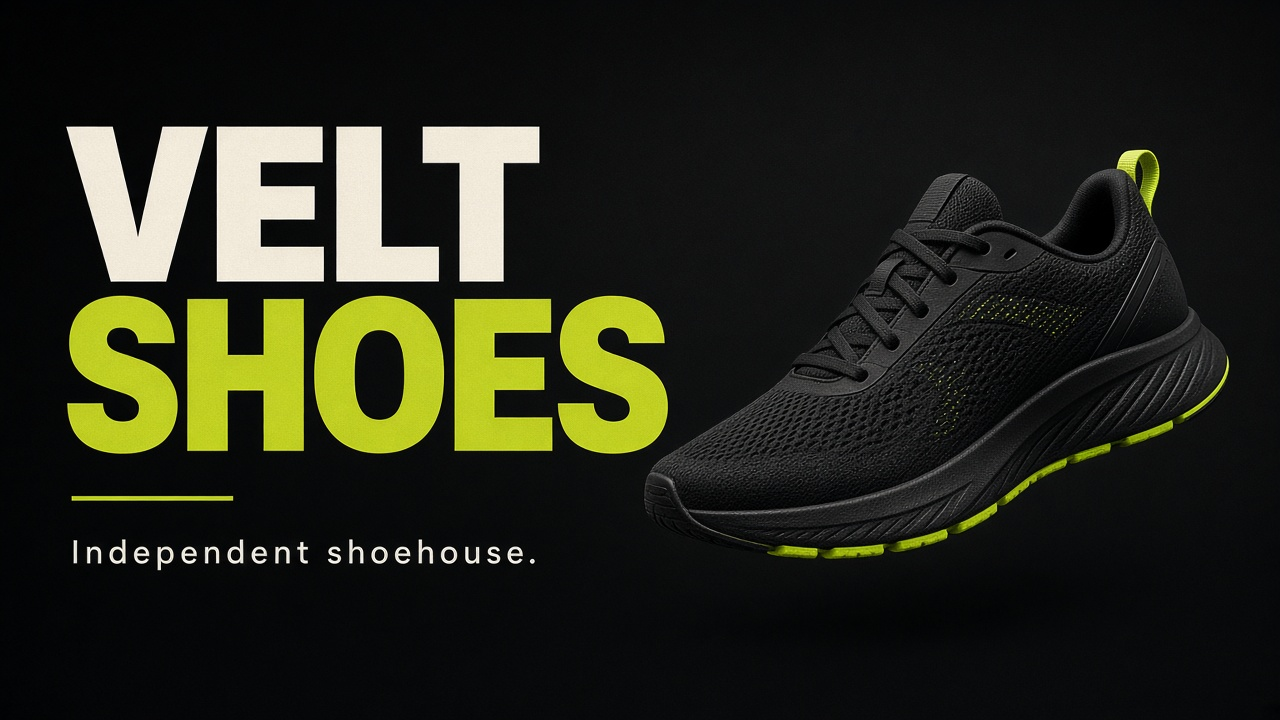
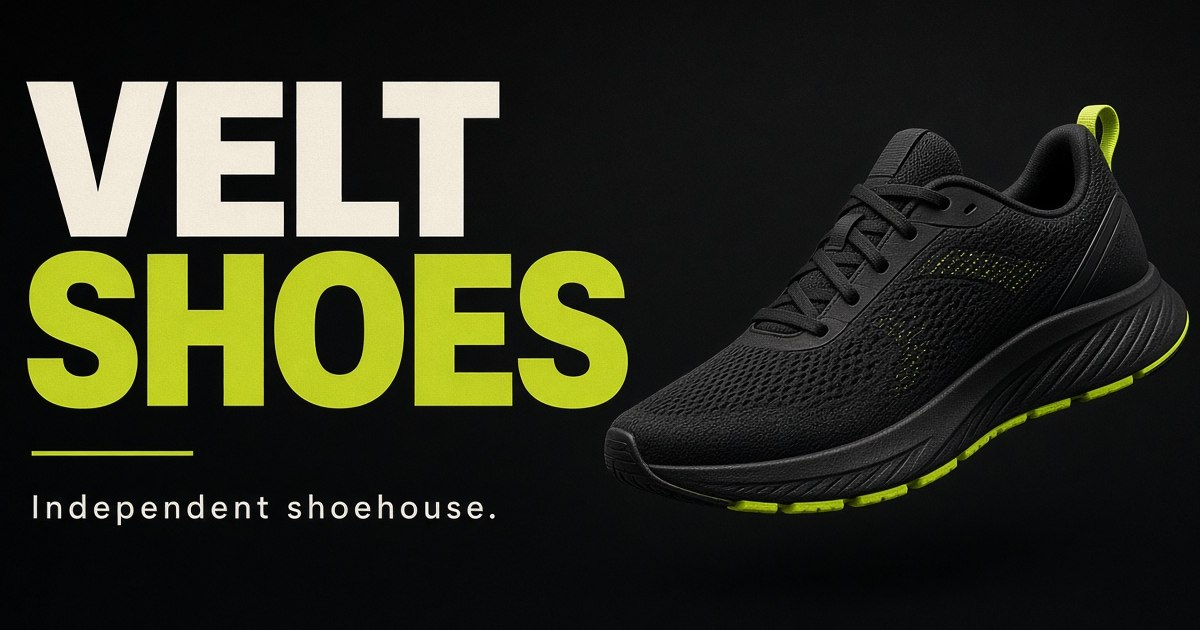
Add WhatsApp Open Graph preview image and complete SEO so shared links show the VELT card.

Changed region(s): [[0.0, 0.1206, 1.0, 0.8143], [0.0, 0.754, 0.4317, 0.8444]]

diff --git a/index.html b/index.html
@@ -8,34 +8,75 @@
       name="description"
       content="VELT is an independent shoehouse. Shop running, court, trail, and daily pairs chosen for fit, with 3-day shipping and a 30-day wear test."
     />
+    <meta
+      name="keywords"
+      content="VELT Shoes, independent shoehouse, running shoes, court shoes, trail shoes, sneakers"
+    />
     <meta name="author" content="VELT Shoes" />
-    <meta name="robots" content="index,follow" />
+    <meta name="robots" content="index,follow,max-image-preview:large" />
+    <meta name="googlebot" content="index,follow" />
     <meta name="theme-color" content="#050605" />
     <meta name="msapplication-TileColor" content="#B6FF3C" />
-    <link rel="canonical" href="/" />
+    <meta name="msapplication-TileImage" content="icon-192.png" />
+    <meta name="application-name" content="VELT Shoes" />
+    <meta name="apple-mobile-web-app-title" content="VELT Shoes" />
+    <meta name="apple-mobile-web-app-capable" content="yes" />
+    <meta name="apple-mobile-web-app-status-bar-style" content="black-translucent" />
+    <meta name="format-detection" content="telephone=no" />
+    <link rel="canonical" href="https://omar-mohamed-fattouh.github.io/Tailwind-Project-E-Commerce/" />
 
-    <link rel="icon" href="/favicon.ico" sizes="any" />
-    <link rel="icon" type="image/svg+xml" href="/favicon.svg" />
-    <link rel="icon" type="image/png" sizes="32x32" href="/favicon-32.png" />
-    <link rel="apple-touch-icon" href="/apple-touch-icon.png" />
-    <link rel="manifest" href="/site.webmanifest" />
+    <link rel="icon" href="favicon.ico" sizes="any" />
+    <link rel="icon" type="image/svg+xml" href="favicon.svg" />
+    <link rel="icon" type="image/png" sizes="32x32" href="favicon-32.png" />
+    <link rel="apple-touch-icon" href="apple-touch-icon.png" />
+    <link rel="manifest" href="site.webmanifest" />
 
     <meta property="og:type" content="website" />
+    <meta property="og:locale" content="en_US" />
     <meta property="og:site_name" content="VELT Shoes" />
     <meta property="og:title" content="VELT Shoes | Independent Shoehouse" />
     <meta
       property="og:description"
       content="Running, court, trail, and daily pairs chosen for fit — not hype."
     />
-    <meta property="og:image" content="/og-image.jpg" />
-    <meta property="og:image:alt" content="VELT Shoes featured running pair" />
+    <meta
+      property="og:url"
+      content="https://omar-mohamed-fattouh.github.io/Tailwind-Project-E-Commerce/"
+    />
+    <meta
+      property="og:image"
+      content="https://cdn.jsdelivr.net/gh/Omar-Mohamed-Fattouh/Tailwind-Project-E-Commerce@main/public/og-image.jpg"
+    />
+    <meta
+      property="og:image:secure_url"
+      content="https://cdn.jsdelivr.net/gh/Omar-Mohamed-Fattouh/Tailwind-Project-E-Commerce@main/public/og-image.jpg"
+    />
+    <meta property="og:image:type" content="image/jpeg" />
+    <meta property="og:image:width" content="1200" />
+    <meta property="og:image:height" content="630" />
+    <meta property="og:image:alt" content="VELT Shoes featured running pair on a black studio background" />
+
     <meta name="twitter:card" content="summary_large_image" />
     <meta name="twitter:title" content="VELT Shoes | Independent Shoehouse" />
     <meta
       name="twitter:description"
       content="Running, court, trail, and daily pairs chosen for fit — not hype."
     />
-    <meta name="twitter:image" content="/og-image.jpg" />
+    <meta
+      name="twitter:image"
+      content="https://cdn.jsdelivr.net/gh/Omar-Mohamed-Fattouh/Tailwind-Project-E-Commerce@main/public/og-image.jpg"
+    />
+    <meta name="twitter:image:alt" content="VELT Shoes featured running pair" />
+
+    <meta itemprop="name" content="VELT Shoes | Independent Shoehouse" />
+    <meta
+      itemprop="description"
+      content="Independent shoehouse for running, court, trail, and daily pairs."
+    />
+    <meta
+      itemprop="image"
+      content="https://cdn.jsdelivr.net/gh/Omar-Mohamed-Fattouh/Tailwind-Project-E-Commerce@main/public/og-image.jpg"
+    />
 
     <link rel="preconnect" href="https://fonts.googleapis.com" />
     <link rel="preconnect" href="https://fonts.gstatic.com" crossorigin />
@@ -49,11 +90,16 @@
         "@context": "https://schema.org",
         "@type": "ShoeStore",
         "name": "VELT Shoes",
+        "url": "https://omar-mohamed-fattouh.github.io/Tailwind-Project-E-Commerce/",
         "description": "Independent shoehouse for running, court, trail, and daily pairs.",
-        "image": "/og-image.jpg",
+        "image": "https://cdn.jsdelivr.net/gh/Omar-Mohamed-Fattouh/Tailwind-Project-E-Commerce@main/public/og-image.jpg",
+        "logo": "https://cdn.jsdelivr.net/gh/Omar-Mohamed-Fattouh/Tailwind-Project-E-Commerce@main/public/icon-512.png",
         "email": "omarmfattouh45@gmail.com",
         "telephone": "+201284681320",
-        "priceRange": "$$"
+        "priceRange": "$$",
+        "sameAs": [
+          "https://github.com/Omar-Mohamed-Fattouh/Tailwind-Project-E-Commerce"
+        ]
       }
     </script>
   </head>

diff --git a/vite.config.js b/vite.config.js
@@ -1,7 +1,7 @@
 import { defineConfig } from 'vite'
 import react from '@vitejs/plugin-react'
 
-// https://vitejs.dev/config/
 export default defineConfig({
   plugins: [react()],
+  base: process.env.GITHUB_PAGES === 'true' ? '/Tailwind-Project-E-Commerce/' : '/',
 })

diff --git a/README.md b/README.md
@@ -1,8 +1,14 @@
-# React + Vite
+# VELT Shoes
 
-This template provides a minimal setup to get React working in Vite with HMR and some ESLint rules.
+Independent shoehouse for running, court, trail, and daily pairs.
 
-Currently, two official plugins are available:
+![VELT Shoes](public/og-image.jpg)
 
-- [@vitejs/plugin-react](https://github.com/vitejs/vite-plugin-react/blob/main/packages/plugin-react/README.md) uses [Babel](https://babeljs.io/) for Fast Refresh
-- [@vitejs/plugin-react-swc](https://github.com/vitejs/vite-plugin-react-swc) uses [SWC](https://swc.rs/) for Fast Refresh
+Live site: https://omar-mohamed-fattouh.github.io/Tailwind-Project-E-Commerce/
+
+## Run locally
+
+```bash
+npm install
+npm run dev
+```
